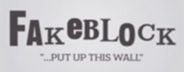
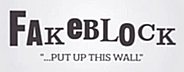
finishing touches

Changed region(s): [[0.0272, 0.1111, 0.9783, 0.6667], [0.1902, 0.7222, 0.788, 0.8889]]

diff --git a/app/assets/stylesheets/custom.css.scss b/app/assets/stylesheets/custom.css.scss
@@ -19,6 +19,13 @@ p {
 	padding: 0px;
 }
 
+h1 {
+	color:  #343442;
+	margin:0px;
+	padding:0px;
+	font-size: 30px;
+}
+
 h2 {
 	color: #73353A;
 	margin:0px;

diff --git a/app/controllers/users_controller.rb b/app/controllers/users_controller.rb
@@ -6,6 +6,7 @@ class UsersController < ApplicationController
   # GET /users
   # GET /users.json
   def index
+    authenticate_user
     @users = User.all
     @users = User.find_all_by_last_name(params[:search])
   end
